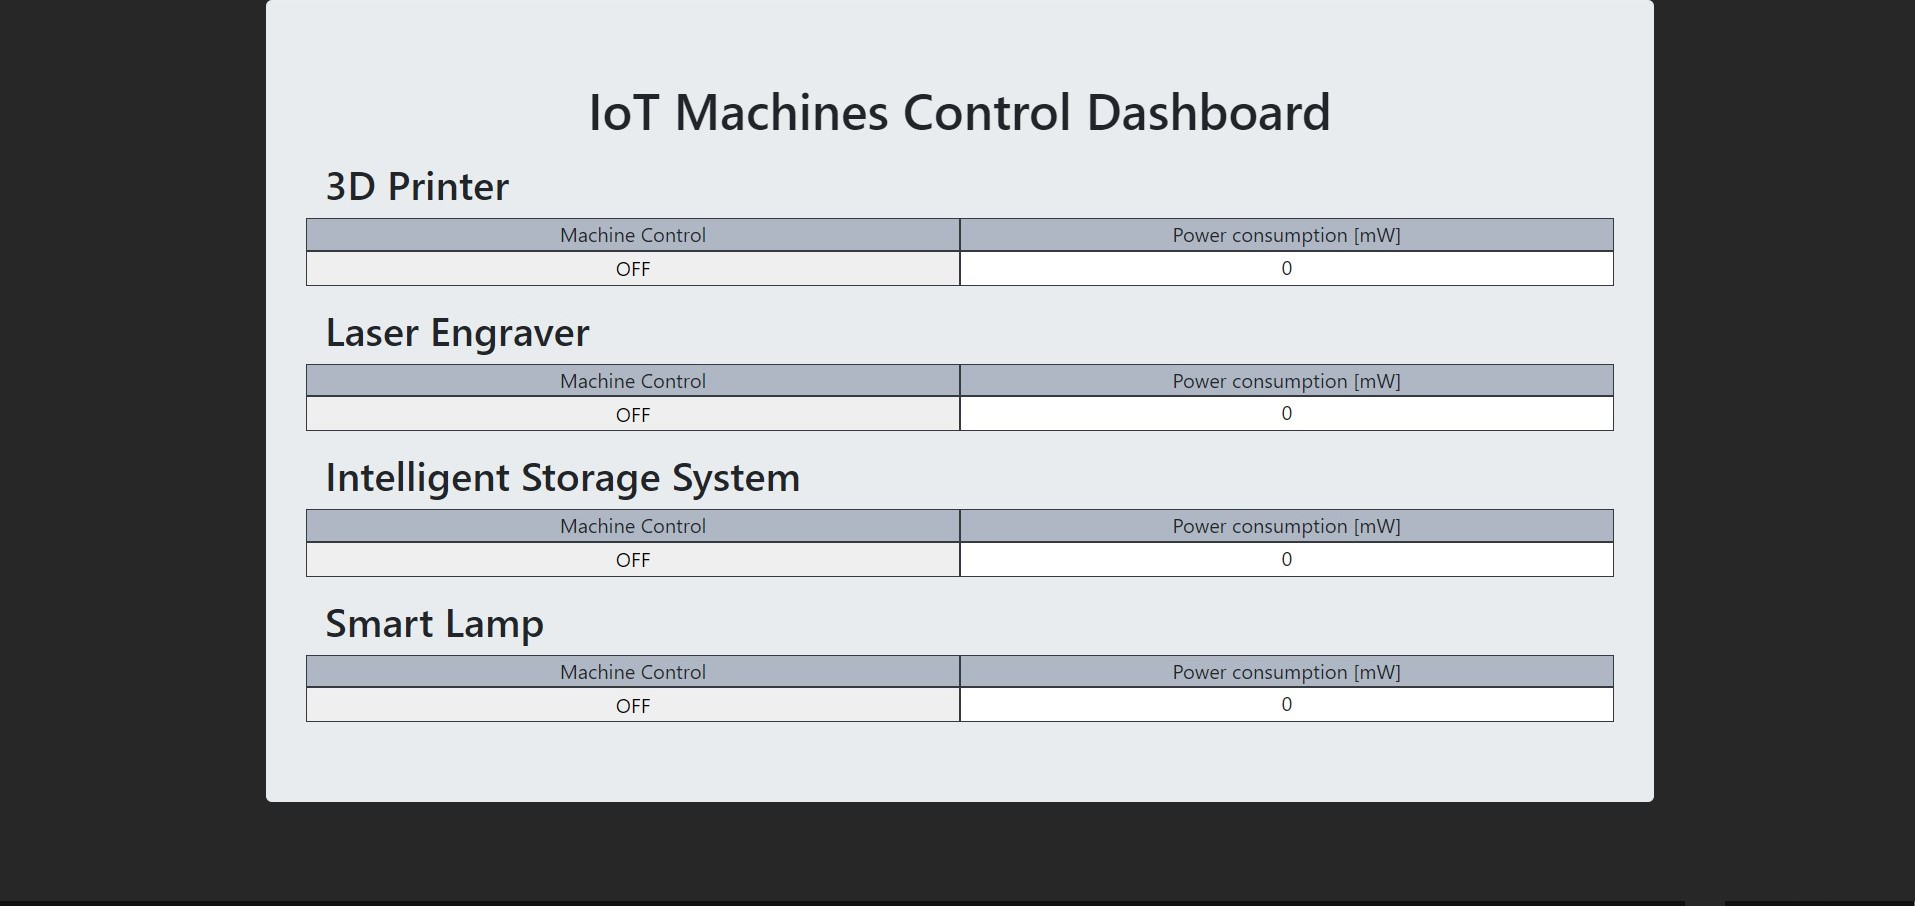
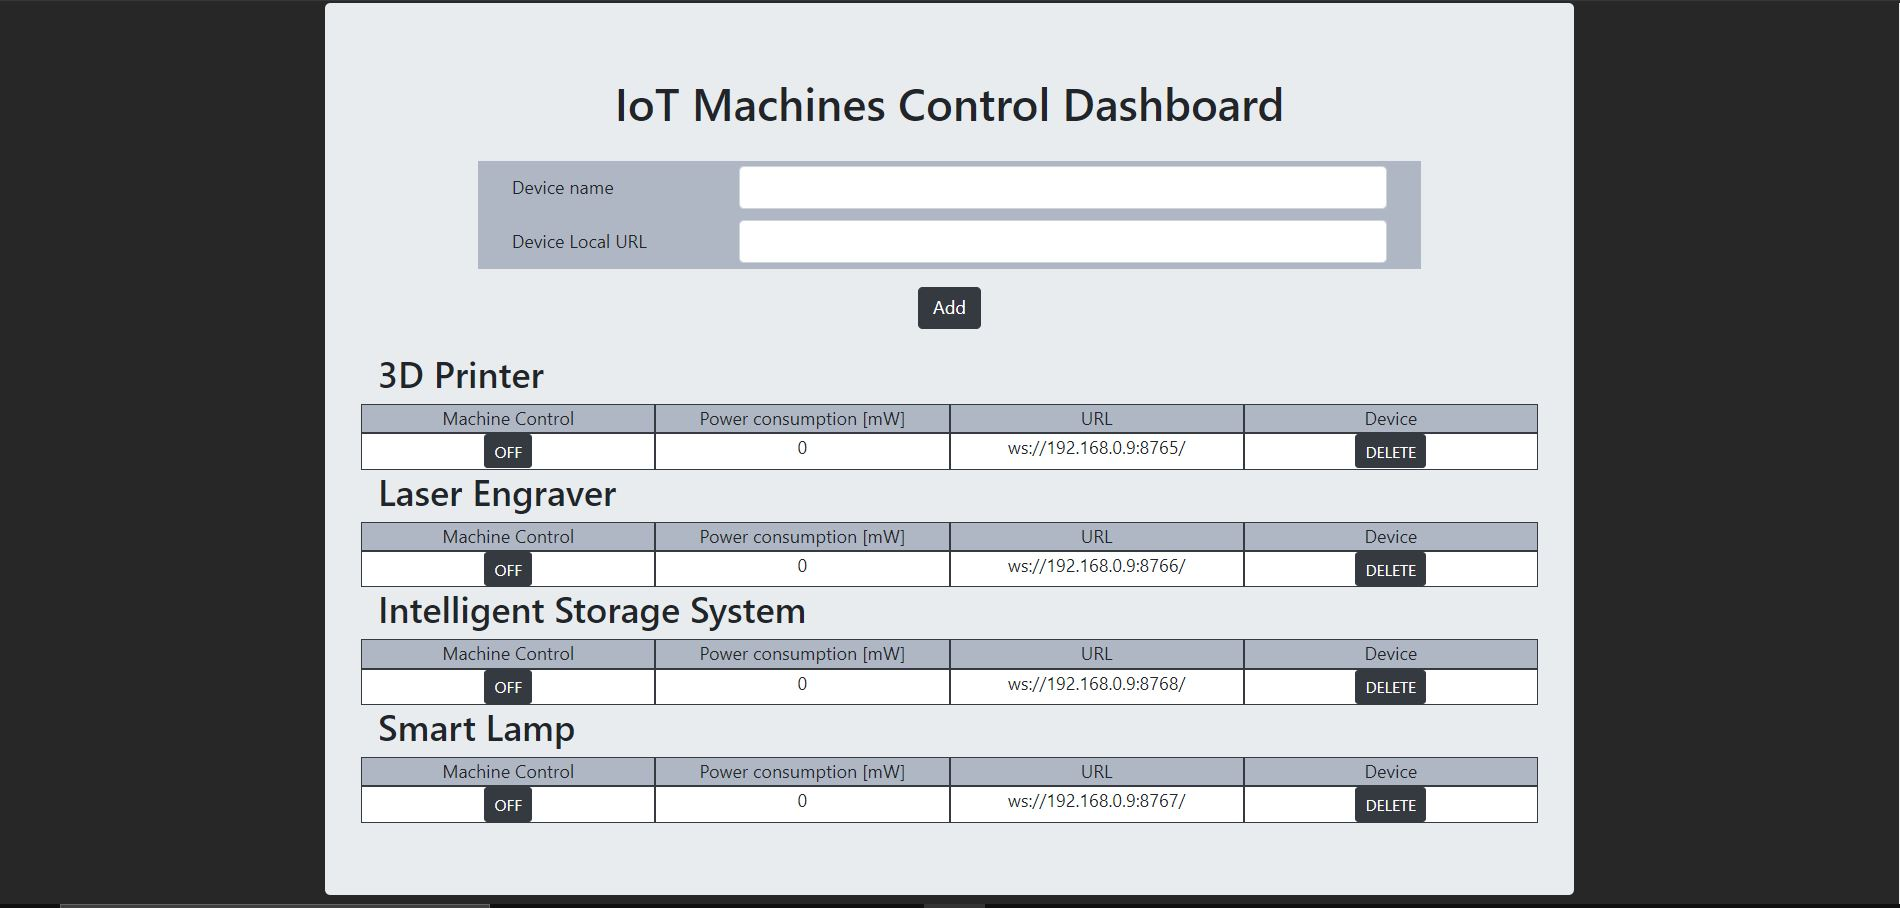
Update readme and example image

diff --git a/README.md b/README.md
@@ -1,13 +1,19 @@
 # IoT Control Panel
 Dashboard to control and monitor machines connected to smart plugs.
 
-Connect machines or devices to smart plugs and control (turn them on or off) and monitor (see power consumption) them.
+Connect machines or devices to smart plugs and control (turn them on or off) and monitor them (see their power consumption).
 
 Tested and developed connecting 4 machines and devices to Wemo Insight Smart Plug.
 
-See https://github.com/iancmcc/ouimeaux for an API to set up and environment with Wemo plugs.
+See https://github.com/iancmcc/ouimeaux for the API used to interact with the Wemo plugs.
 
-Should work with smart plugs that accept http requests for control.
+Should work with any smart plug that works under webSocket protocols and understands the following commands:
+*toggle: to switch between on and off states
+*power: to send power consumption data
+
+In the smartplug folder it is included a Python file to start a webSocket server from a Wemo smart plug. Set up the Wemo device using their app, change the name variable in the Python script to the name of your device and run the script. Copy the IP address of your webSocket.
+
+Finally, add your device to the database through the web GUI and all is set.
 
 Example dashboard (no connections established):
 
